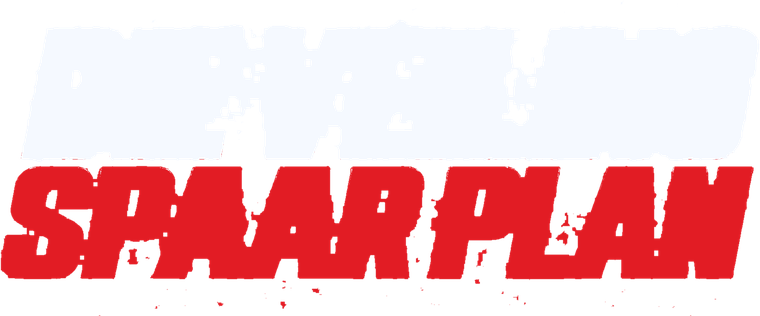
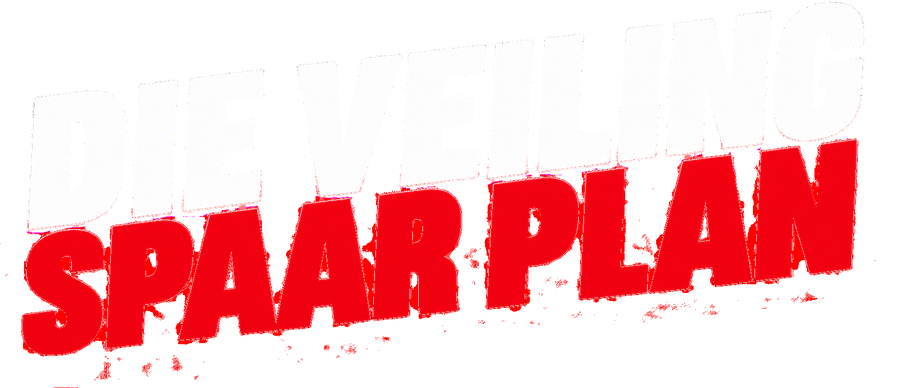
Spaar Plan splash: fix full-height (drop position:relative that collapsed section), angled title image

diff --git a/die-veiling-spaarplan-7q4m2k/index.html b/die-veiling-spaarplan-7q4m2k/index.html
@@ -155,17 +155,14 @@ h2.scr-h{font-family:'Oswald';font-weight:700;font-size:25px;letter-spacing:.01e
 .tabbar .tb svg{width:21px;height:21px}
 
 /* splash */
-.splash{position:relative;overflow:hidden;justify-content:space-between;background:
+.splash{overflow:hidden;justify-content:space-between;background:
   linear-gradient(180deg,rgba(6,17,31,.5) 0%,rgba(6,17,31,.32) 40%,rgba(5,15,28,.92) 100%),
   url(img/bg-splash.jpg) center/cover no-repeat;background-color:#05101d}
 .splash>*{position:relative;z-index:2}
-.splash .mid{text-align:center;margin-top:4px}
-.splash .dvbig{height:92px;margin:0 auto;filter:drop-shadow(0 4px 18px rgba(255,59,78,.5))}
-.splash .title{font-family:'Oswald';font-weight:700;font-style:italic;text-transform:uppercase;line-height:.84;margin-top:16px;transform:skewX(-6deg)}
-.splash .title span{display:block;letter-spacing:.004em;text-shadow:0 3px 14px rgba(0,0,0,.65)}
-.splash .title .l1{font-size:40px;color:#fff}
-.splash .title .l2{font-size:40px;color:#ff2436}
-.splash .tag{color:var(--ice);font-size:11.5px;letter-spacing:.12em;text-transform:uppercase;margin-top:16px;font-weight:600}
+.splash .mid{text-align:center;margin-top:8px}
+.splash .dvbig{height:96px;margin:0 auto;filter:drop-shadow(0 4px 18px rgba(255,59,78,.5))}
+.splash .titleimg{display:block;width:94%;max-width:338px;margin:14px auto 0;filter:drop-shadow(0 3px 12px rgba(0,0,0,.6))}
+.splash .tag{color:var(--ice);font-size:12px;letter-spacing:.12em;text-transform:uppercase;margin-top:18px;font-weight:600}
 .splash .beerwrap{display:flex;justify-content:center;margin:6px 0}
 .cosponsor{text-align:center;margin-bottom:14px}
 .cosponsor .lbl{display:block;color:var(--ice-soft);font-size:10px;letter-spacing:.16em;text-transform:uppercase;margin-bottom:9px;opacity:.85}
@@ -206,7 +203,7 @@ h2.scr-h{font-family:'Oswald';font-weight:700;font-size:25px;letter-spacing:.01e
       <div class="brandbar"><span class="clite" id="cl1"></span></div>
       <div class="mid">
         <img class="dvbig" src="img/dv-logo.png" alt="Die Veiling">
-        <div class="title"><span class="l1">Die Veiling</span><span class="l2">Spaar Plan</span></div>
+        <img class="titleimg" src="img/title.png" alt="Die Veiling Spaar Plan">
         <div class="tag">Lekker mense · Lekker tyd · Groter voordele</div>
       </div>
       <div>
